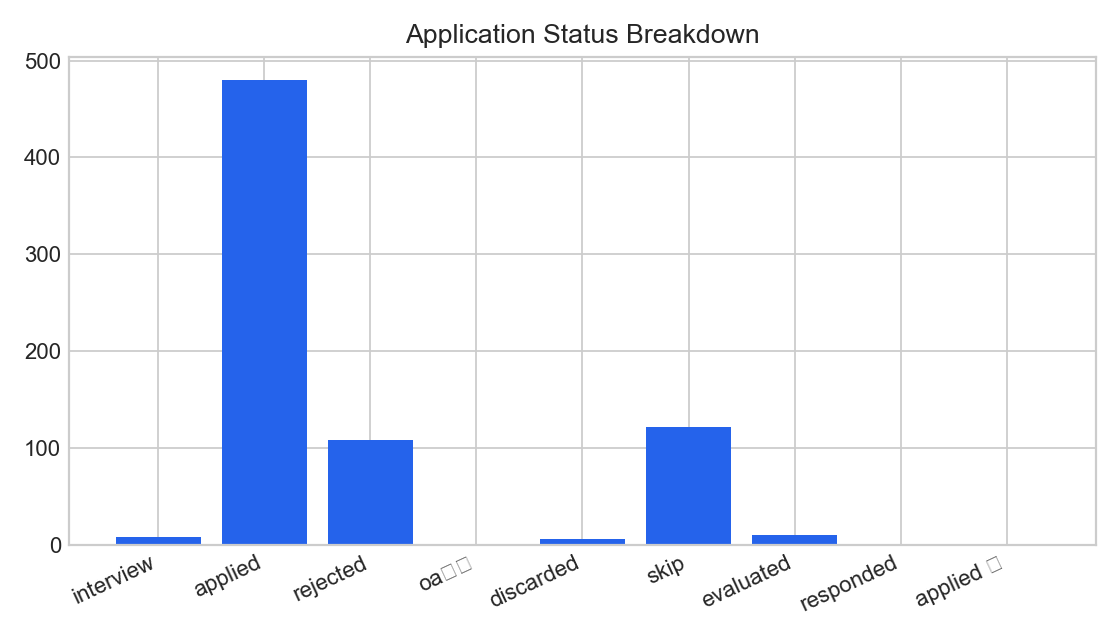
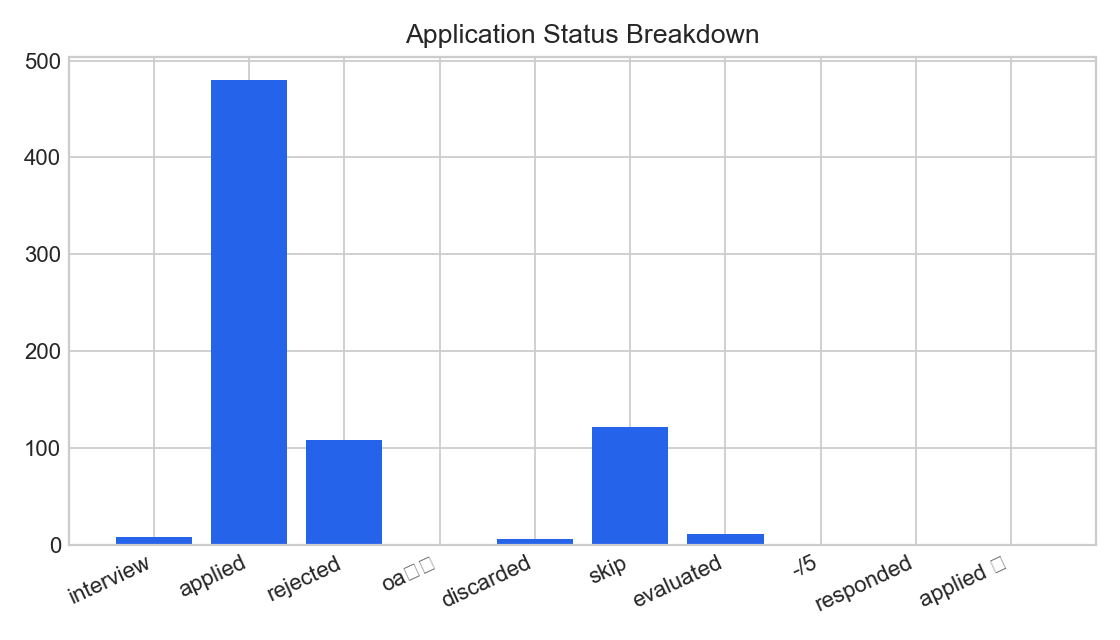
Refresh analytics: 890 merged roles (8/11: American Credit Acceptance SKIP, UnitedHealthcare evaluated)
Committer timestamp deliberately set to local noon (not actual commit time,
23:56 PDT) to avoid the UTC contribution-graph bucketing issue diagnosed
earlier today — a commit at 23:56 PDT converts to 06:56 UTC the next day
and would misattribute today's work to 8/12.

diff --git a/data/daily_summary.md b/data/daily_summary.md
@@ -1,6 +1,6 @@
 # Daily Job Search Summary
 
-_Last refreshed: 2026-08-10T23:58:54-07:00_
+_Last refreshed: 2026-08-11T23:56:33-07:00_
 
 ## Positioning
 
@@ -10,20 +10,21 @@ _Last refreshed: 2026-08-10T23:58:54-07:00_
 
 ## Snapshot
 
-- Tracked roles: 888
-- Active roles: 499
+- Tracked roles: 890
+- Active roles: 500
 - Response rate: 1.5%
 - LinkedIn outreach sent: 28
 - Pending pipeline items: 155
 - Recommended pipeline items: 36
-- Average evaluated score: 3.41
+- Average evaluated score: 7.57
 
 ## Status Breakdown
 
+- -/5: 1
 - applied: 480
 - applied ✅: 1
 - discarded: 6
-- evaluated: 10
+- evaluated: 11
 - interview: 8
 - oa完成: 1
 - rejected: 108
@@ -32,6 +33,8 @@ _Last refreshed: 2026-08-10T23:58:54-07:00_
 
 ## Recent Activity
 
+- 2026-08-11: American Credit Acceptance | Data Analyst | -/5
+- 2026-08-11: UnitedHealthcare | Data Analyst I - UHC Cove | evaluated
 - 2026-08-10: UCSD | Social Sciences Data Project Researcher | applied
 - 2026-08-10: Fetch | Data Analyst, User Analytics & Insights | applied
 - 2026-08-10: Navy Federal Credit Union | Business Intelligence Analyst | applied
@@ -40,8 +43,6 @@ _Last refreshed: 2026-08-10T23:58:54-07:00_
 - 2026-08-10: TopDog Law | Analyst, Underwriting Analytics | skip
 - 2026-08-10: Guardian Fire Protection Services | Business Intelligence Analyst (Entry Level) | discarded
 - 2026-08-10: Mortenson | Associate Data Scientist - Estimating | skip
-- 2026-08-09: Meta | Data Engineer, Product Analytics (University Grad) | applied
-- 2026-08-09: Wonder / Grubhub | Analyst - Restaurant Analytics | applied
 
 ## Recommended Opportunity Queue
 
@@ -63,13 +64,13 @@ _Last refreshed: 2026-08-10T23:58:54-07:00_
 
 ## Needs Attention
 
-- Microsoft | Applied Scientist: Microsoft AI Development Acceleration Program | 151 days with no response
-- Nvidia | Deep Learning Architect, LLM Inference - New College Grad 2026 | 151 days with no response
-- Google | Software Engineer II, Early Career | 147 days with no response
-- Apple | AIML - Machine Learning Research | 140 days with no response
-- Amazon | Data Engineer II | 138 days with no response
-- Amazon | Software Development Engineer – Amazon Leo (US) | 138 days with no response
-- Amazon | Software Development Engineer - 2026 (US) | 138 days with no response
-- Amazon | 软件开发工程师, (New graduate or Entry-level Engineer, 0-2 Years) | 138 days with no response
-- Esri | Product Test Engineer II - Feature Server | 138 days with no response
-- Esri | Product Engineer II - ArcGIS Enterprise Sharing API | 138 days with no response
+- Microsoft | Applied Scientist: Microsoft AI Development Acceleration Program | 152 days with no response
+- Nvidia | Deep Learning Architect, LLM Inference - New College Grad 2026 | 152 days with no response
+- Google | Software Engineer II, Early Career | 148 days with no response
+- Apple | AIML - Machine Learning Research | 141 days with no response
+- Amazon | Data Engineer II | 139 days with no response
+- Amazon | Software Development Engineer – Amazon Leo (US) | 139 days with no response
+- Amazon | Software Development Engineer - 2026 (US) | 139 days with no response
+- Amazon | 软件开发工程师, (New graduate or Entry-level Engineer, 0-2 Years) | 139 days with no response
+- Esri | Product Test Engineer II - Feature Server | 139 days with no response
+- Esri | Product Engineer II - ArcGIS Enterprise Sharing API | 139 days with no response
